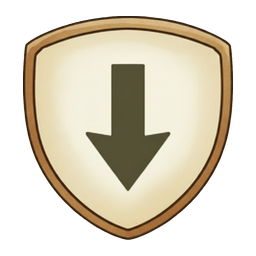
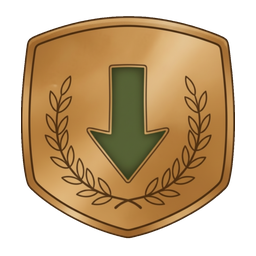
Match cargo shields to bronze laurel research seals

diff --git a/assets/ui/sources/cargo_shields/classical/pack.py b/assets/ui/sources/cargo_shields/classical/pack.py
@@ -1,0 +1,29 @@
+"""Pack FAL renders/cutouts as matched 256px buttons; repair enclosed mask holes."""
+from pathlib import Path
+import numpy as np
+from PIL import Image, ImageDraw, ImageFilter
+
+HERE = Path(__file__).resolve().parent
+images = []
+for name in ('up', 'down'):
+    original = np.array(Image.open(HERE / f'{name}-original.png').convert('RGBA'))
+    cutout = np.array(Image.open(HERE / f'{name}-cutout.png').convert('RGBA'))
+    # BiRefNet can mistake the pale inset for background. Only fill regions
+    # enclosed by its opaque shield silhouette, using the original FAL pixels.
+    mask = Image.fromarray(np.where(cutout[..., 3] > 32, 255, 0).astype('uint8')).copy()
+    ImageDraw.floodfill(mask, (0, 0), 128, thresh=0)
+    interior = np.array(mask) != 128
+    cutout[interior, :3] = original[interior, :3]
+    cutout[interior, 3] = 255
+    image = Image.fromarray(cutout)
+    # Remove the two-pixel white matte fringe before downsampling.
+    image.putalpha(image.getchannel("A").filter(ImageFilter.MinFilter(5)))
+    images.append(image)
+boxes = [im.getchannel('A').point(lambda a: 255 if a > 32 else 0).getbbox() for im in images]
+box = (min(b[0] for b in boxes), min(b[1] for b in boxes), max(b[2] for b in boxes), max(b[3] for b in boxes))
+fit = 224 / max(box[2]-box[0], box[3]-box[1])
+size = (round((box[2]-box[0])*fit), round((box[3]-box[1])*fit))
+for name, image in zip(('up','down'),images):
+    button = Image.new('RGBA',(256,256))
+    button.alpha_composite(image.crop(box).resize(size,Image.Resampling.LANCZOS),((256-size[0])//2,(256-size[1])//2))
+    button.save(HERE.parent.parent.parent / 'buttons' / f'shield_{name}.png')

diff --git a/assets/ui/README.md b/assets/ui/README.md
@@ -85,6 +85,8 @@ Every icon under `icons/` (portraits excluded) is normalized by `scripts/normali
 
 ## Cargo transfer shields (2026-10-05)
 
-`buttons/shield_up.png` loads ship cargo; `buttons/shield_down.png` unloads it. Both are FAL-generated bronze-and-ivory shields with dark olive arrows, drawn against `buttons/coin_normal.png` as the style reference. The down shield is a `fal-ai/nano-banana/edit` variant of the generated up shield; the shield itself stays upright. They replace the rectangular text buttons in each ship resource row, with shared Load/Unload column labels and reduced opacity when unavailable.
+`buttons/shield_up.png` loads ship cargo; `buttons/shield_down.png` unloads it. The active FAL-generated shields match `buttons/coin_researched.png`: warm bronze faces and rims, engraved laurel branches, and green enamel arrows with bronze outlines. The shape stays an upright shield in both directions. They replace text buttons in each ship resource row, with Load/Unload column labels and reduced opacity when unavailable.
 
-Original 1024px renders, BiRefNet cutouts, exact prompts, reference paths, responses, request IDs and the reproducible `pack.py` are in `sources/cargo_shields/`. Packing restores original pixels inside enclosed segmentation holes (BiRefNet misclassified part of the up shield’s pale inset), removes a two-pixel matte fringe and resizes both from a common bound to matched 256px RGBA buttons. `preview.png` checks them at 88px and actual 40px size on dark green, parchment and blue. Estimated FAL generation/cutout cost: $0.0896. No new drawn arrow geometry or generated lettering.
+Final 1024px renders, BiRefNet cutouts, exact prompts, reference paths, responses, request IDs and the reproducible `pack.py` are in `sources/cargo_shields/classical/`. The existing research seal was the primary style reference; the earlier shield provided only its silhouette. `style-comparison.png` compares the check seal and both arrows on dark green, parchment and blue at large and actual UI sizes. The earlier ivory draft and its provenance remain in the parent directory.
+
+Packing restores original pixels inside any enclosed segmentation holes, removes a two-pixel matte fringe and resizes both from a common bound to matched 256px RGBA buttons. Estimated FAL generation/cutout cost for the final revision: $0.0896 ($0.1792 including the initial draft). No code-drawn arrow geometry or generated lettering.

diff --git a/OPEN_WORK.md b/OPEN_WORK.md
@@ -9,4 +9,4 @@
 
 - Follow-up UI: removed resource-cycle state; transfer actions now carry their resource kind explicitly. All client tests and focused filtering, capacity and long-list reachability/layout checks pass; desktop and DPR-2 phone resource-row buttons passed wood/food loading and wood unloading against authoritative state. Formatting, native/WASM lint and web build pass. Thermonuclear review retains explicit resource kinds in transfer actions and removes the obsolete selection state.
 
-- FAL shield follow-up: generated matching up/down bronze-and-ivory shield assets and replaced rectangular transfer buttons. Sources, prompts, request IDs, cutouts, mask cleanup/packing script and dark/cream/blue preview live under `assets/ui/sources/cargo_shields/`. Native/WASM lint, client tests and web build pass; desktop mouse and DPR-2 phone touch shield buttons passed wood/food loading and wood unloading. Art reviewed at actual size and against dark green, parchment and blue; transparent RGBA corners and asset checks pass.
+- FAL shield follow-up: up/down transfer shields now match the existing research check seals: bronze faces, laurel branches and bronze-outlined green enamel arrows. Active generation sources, prompts, request IDs, cutouts, packing script and style comparison are under `assets/ui/sources/cargo_shields/classical/`; parent sources retain the earlier ivory draft. This is an asset-only revision. Transparent RGBA/contrast checks and existing asset checks pass; updated desktop and DPR-2 phone context captures and load/unload acceptance passed, without browser errors. Context captures: `/workspace/scratch/island-storage/desktop-classical-shields.png` and `phone-classical-shields.png`.
